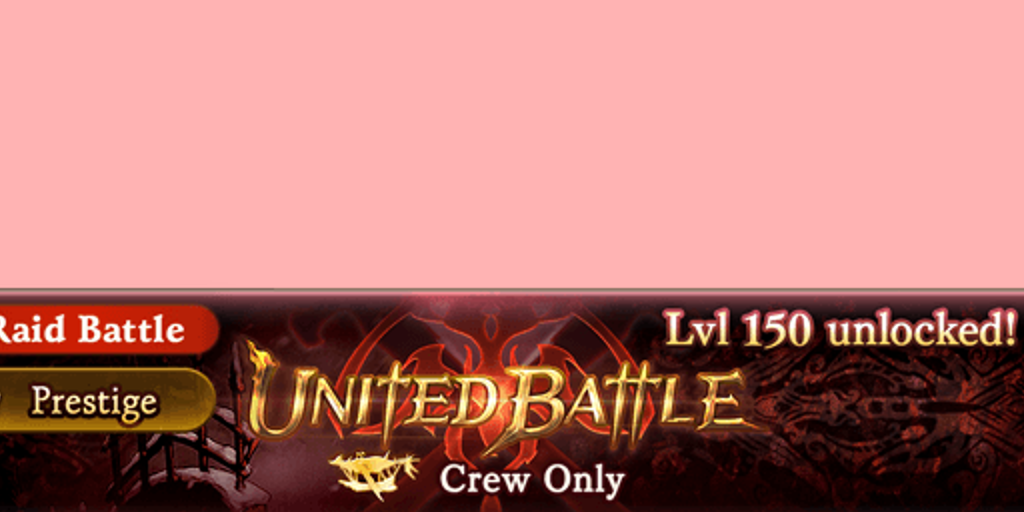
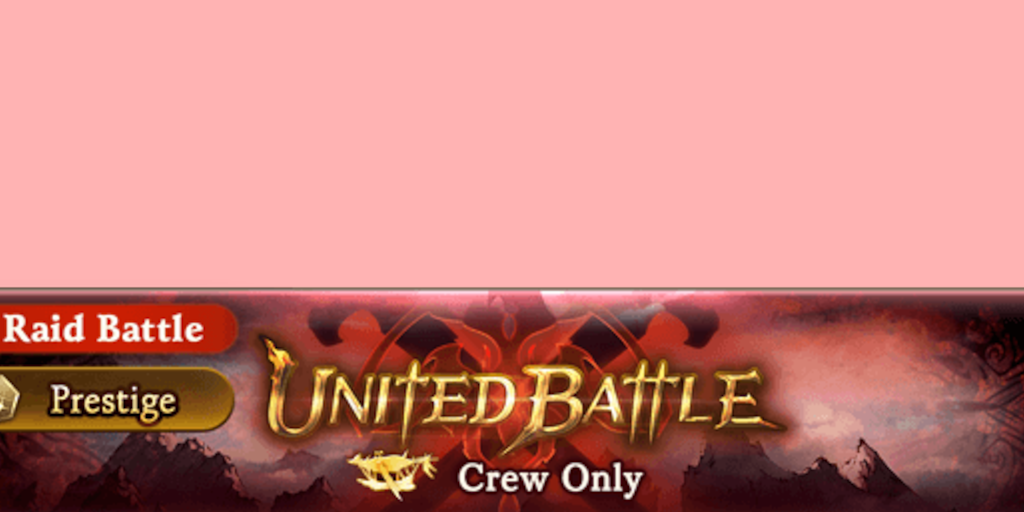
1.14 NM150 & 200 revamp

diff --git a/gbftm.py b/gbftm.py
@@ -13,7 +13,7 @@ import sys
 
 class GBFTM():
     def __init__(self):
-        print("GBF Thumbnail Maker v1.13")
+        print("GBF Thumbnail Maker v1.14")
         self.assets = []
         self.settings = {}
         self.load()
@@ -358,7 +358,8 @@ class GBFTM():
             up = False
             special = {"and":"and", "of":"of", "de":"de", "for":"for", "the":"the", "(sr)":"(SR)", "(ssr)":"(SSR)", "(r)":"(R)"} # case where we don't don't fix anything and return it
             if term.lower() in special:
-                return special[term.lower()]
+                fixeds.append(special[term.lower()])
+                continue
             for i in range(0, len(term)): # for each character
                 if term[i].isalpha(): # if letter
                     if term[i].isupper(): # is uppercase
@@ -1129,6 +1130,12 @@ class GBFTM():
                         img = self.pasteImage(img, "assets/fade_in.png", (0,40), resize=(1280,640), resizeType="default")
                     case '-nm150':
                         img = self.pasteImage(img, "assets/nm150_filter.png", (0,40), resize=(1280,640), resizeType="default")
+                        gwid = input("Input the GW Number:")
+                        img = self.dlAndPasteImage(img, "http://game-a1.granbluefantasy.jp/assets_en/img/sp/event/teamraid{}/assets/thumb/teamraid{}_hell150.png".format(gwid.zfill(3), gwid.zfill(3)), (5,410), resize=(304,256), resizeType="default")
+                    case '-nm200':
+                        img = self.pasteImage(img, "assets/nm200_filter.png", (0,40), resize=(1280,640), resizeType="default")
+                        gwid = input("Input the GW Number:")
+                        img = self.dlAndPasteImage(img, "http://game-a1.granbluefantasy.jp/assets_en/img/sp/event/teamraid{}/assets/thumb/teamraid{}_hell200.png".format(gwid.zfill(3), gwid.zfill(3)), (5,410), resize=(304,256), resizeType="default")
                     case _:
                         print("Warning: Ignoring unknown parameter:", args[i])
                 i += 1
